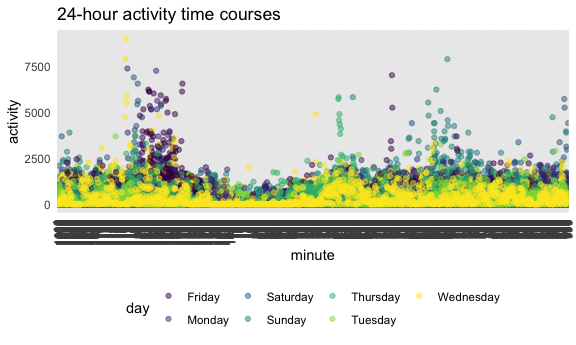
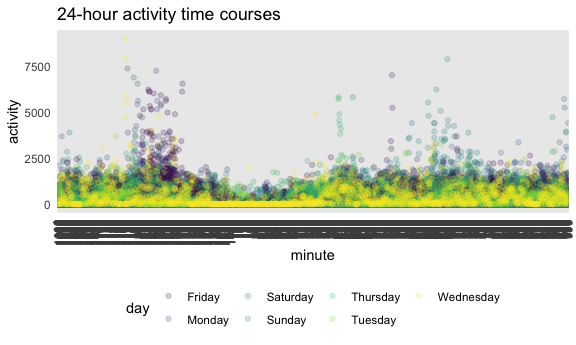
update plots

diff --git a/p8105_hw3_yw4005.md b/p8105_hw3_yw4005.md
@@ -11,6 +11,7 @@ library(lubridate)
 library(ggplot2)
 library(p8105.datasets)
 library(patchwork)
+library(ggridges)
 data("ny_noaa")
 data("instacart")
 ```
@@ -165,55 +166,28 @@ of data of an accelerometer worn by a patient.
 
 ``` r
 accel_data %>% 
-  group_by(day_id) %>%
+  mutate(day = factor(day)) %>%
+  group_by(day) %>%
   summarise(total_activity = sum(activity)) %>%
   knitr::kable(digits = 1)
 ```
 
-| day_id | total_activity |
-|-------:|---------------:|
-|      1 |       480542.6 |
-|      2 |        78828.1 |
-|      3 |       376254.0 |
-|      4 |       631105.0 |
-|      5 |       355923.6 |
-|      6 |       307094.2 |
-|      7 |       340115.0 |
-|      8 |       568839.0 |
-|      9 |       295431.0 |
-|     10 |       607175.0 |
-|     11 |       422018.0 |
-|     12 |       474048.0 |
-|     13 |       423245.0 |
-|     14 |       440962.0 |
-|     15 |       467420.0 |
-|     16 |       685910.0 |
-|     17 |       382928.0 |
-|     18 |       467052.0 |
-|     19 |       371230.0 |
-|     20 |       381507.0 |
-|     21 |       468869.0 |
-|     22 |       154049.0 |
-|     23 |       409450.0 |
-|     24 |         1440.0 |
-|     25 |       260617.0 |
-|     26 |       340291.0 |
-|     27 |       319568.0 |
-|     28 |       434460.0 |
-|     29 |       620860.0 |
-|     30 |       389080.0 |
-|     31 |         1440.0 |
-|     32 |       138421.0 |
-|     33 |       549658.0 |
-|     34 |       367824.0 |
-|     35 |       445366.0 |
+| day       | total_activity |
+|:----------|---------------:|
+| Friday    |        2291711 |
+| Monday    |        1858699 |
+| Saturday  |        1369237 |
+| Sunday    |        1919213 |
+| Thursday  |        2091151 |
+| Tuesday   |        1799238 |
+| Wednesday |        2129772 |
 
 The trends are not apparent.
 
 ``` r
 ggplot(data = accel_data, 
        aes(x = minute, y = activity, color = day)) +
-  geom_point(alpha = .5) +
+  geom_point(alpha = .2) +
   theme(axis.text.x = element_text(angle = 90, vjust = 0.5, hjust=1)) +
   labs(title = "24-hour activity time courses")
 ```
@@ -225,8 +199,9 @@ that has low activity. At other times of the day, there is a day-effect
 on the time that the participant did activity. There are dots that are
 on top of one another, forming a straight line. These dots are all in
 the same color, indicating the same day of the week. In general, the
-participant did more activity in the morning (assumingly) on Fridays and
-Saturdays, in later of the day (assumingly) on Thursdays and Tuesdays.
+participant did more activity in the morning (assuming min 1 is
+midnight) on Fridays and Saturdays, in later of the day (assuming min 1
+is midnight) on Thursdays and Tuesdays.
 
 # Problem 3
 
@@ -311,14 +286,16 @@ tmax_tmin_p <- clean_ny_noaa %>%
 
 snowfall_p <- clean_ny_noaa %>%
   filter(snow < 100 & snow > 0) %>%
-  ggplot(aes(x = snow, fill = year)) + 
-  geom_density(alpha = .3) +
+  ggplot(aes(x = snow, y = year)) + 
+  geom_density_ridges(alpha = .3) +
   theme(legend.position = "right") +
   labs(title = "Distribution of snowfall", x = "snowfall")
 
-tmax_tmin_p/snowfall_p
+tmax_tmin_p + snowfall_p
 ```
 
     ## Warning: Removed 2268778 rows containing non-finite values (stat_boxplot).
+
+    ## Picking joint bandwidth of 3.76
 
 <img src="p8105_hw3_yw4005_files/figure-gfm/temp and snowfall plot-1.png" width="90%" />
